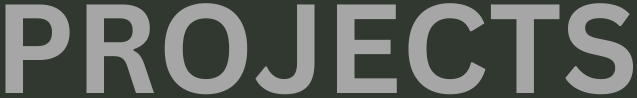
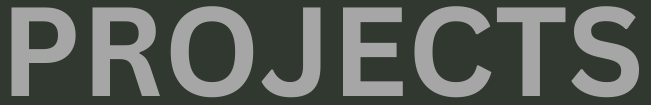
Update images in projects

diff --git a/index.html b/index.html
@@ -270,20 +270,20 @@
                             <div class="projects-btn">
                                 <h3>MOBILE APPLICATION</h3></div>
                             <div class="projects-img">
-                                <img src="images/mobile-application-development" alt="MOBILE APPLICATION IMAGE" width="300" height="400"></div>
+                                <img src="images/app_development.jpg" alt="MOBILE APPLICATION IMAGE" width="300" height="400"></div>
                         </div>
                         <div class="project2">
                             <div class="projects-btn">
                                 <h3>WEBSITE</h3></div>
                             <div class="projects-img">
-                                <img src="images/web-development.jpg" alt="WEBSITE IMAGE" width="300" height="400">
+                                <img src="" alt="WEBSITE IMAGE" width="300" height="400">
                             </div>
                         </div>
                         <div class="project2">
                             <div class="projects-btn">
                                 <h3>UI/UX</h3></div>
                             <div class="projects-img">
-                                <img src="images/ui-ux-design.jpg" alt="UI/UX IMAGE" width="300" height="400"></div>
+                                <img src="" alt="UI/UX IMAGE" width="300" height="400"></div>
                         </div>
                     </div>
                 </div>
@@ -326,7 +326,7 @@
                                     <h4>Email Me On</h4>
                                 </div>
                                 <div class="contact-info">
-                                    <h5><a href="mailto:adriandevilla0518@gmail.com">adriandevilla0518@gmail.com</h5>
+                                    <h5><a href="mailto:adriandevilla0518@gmail.com">adriandevilla0518@gmail.com</a></h5>
                                 </div>
                             </div>
                         </div>

diff --git a/style.css b/style.css
@@ -122,6 +122,7 @@ section {
     color: white;
     font-size: 4rem;
     padding-left: 10px;
+    font-weight: bolder;
 }
 
 .line-3 {
@@ -132,6 +133,7 @@ section {
     color: white;
     font-size: 4rem;
     padding-left: 10px;
+    font-weight: bolder;
 }
 
 h1 .period {
@@ -552,8 +554,11 @@ h1 .about-me {
 .projects-img {
     height: 400px;
     width: 300px;
-    text-align: center;
-    object-fit: cover;
+    object-fit: contain;
+    display: flex;
+    justify-content: center;
+    align-items: center ;
+    color: white;
 }
 
 .projects-img img {
@@ -562,10 +567,9 @@ h1 .about-me {
 
 .projects-img img:hover {
     box-shadow:0px 0px 10px 10px #FF4545;
-    height: 410px;
-    width: 300px;
+    transform: scale(1.05);
+    transition: 0.5s;
     text-align: center;
-    object-fit: cover;
 }
 
 .container-4 {
@@ -642,7 +646,7 @@ h1 .about-me {
     display: flex;
     align-items: center;
     align-items: center;
-    gap: 20px;
+    gap: 40px;
 }
 
 
